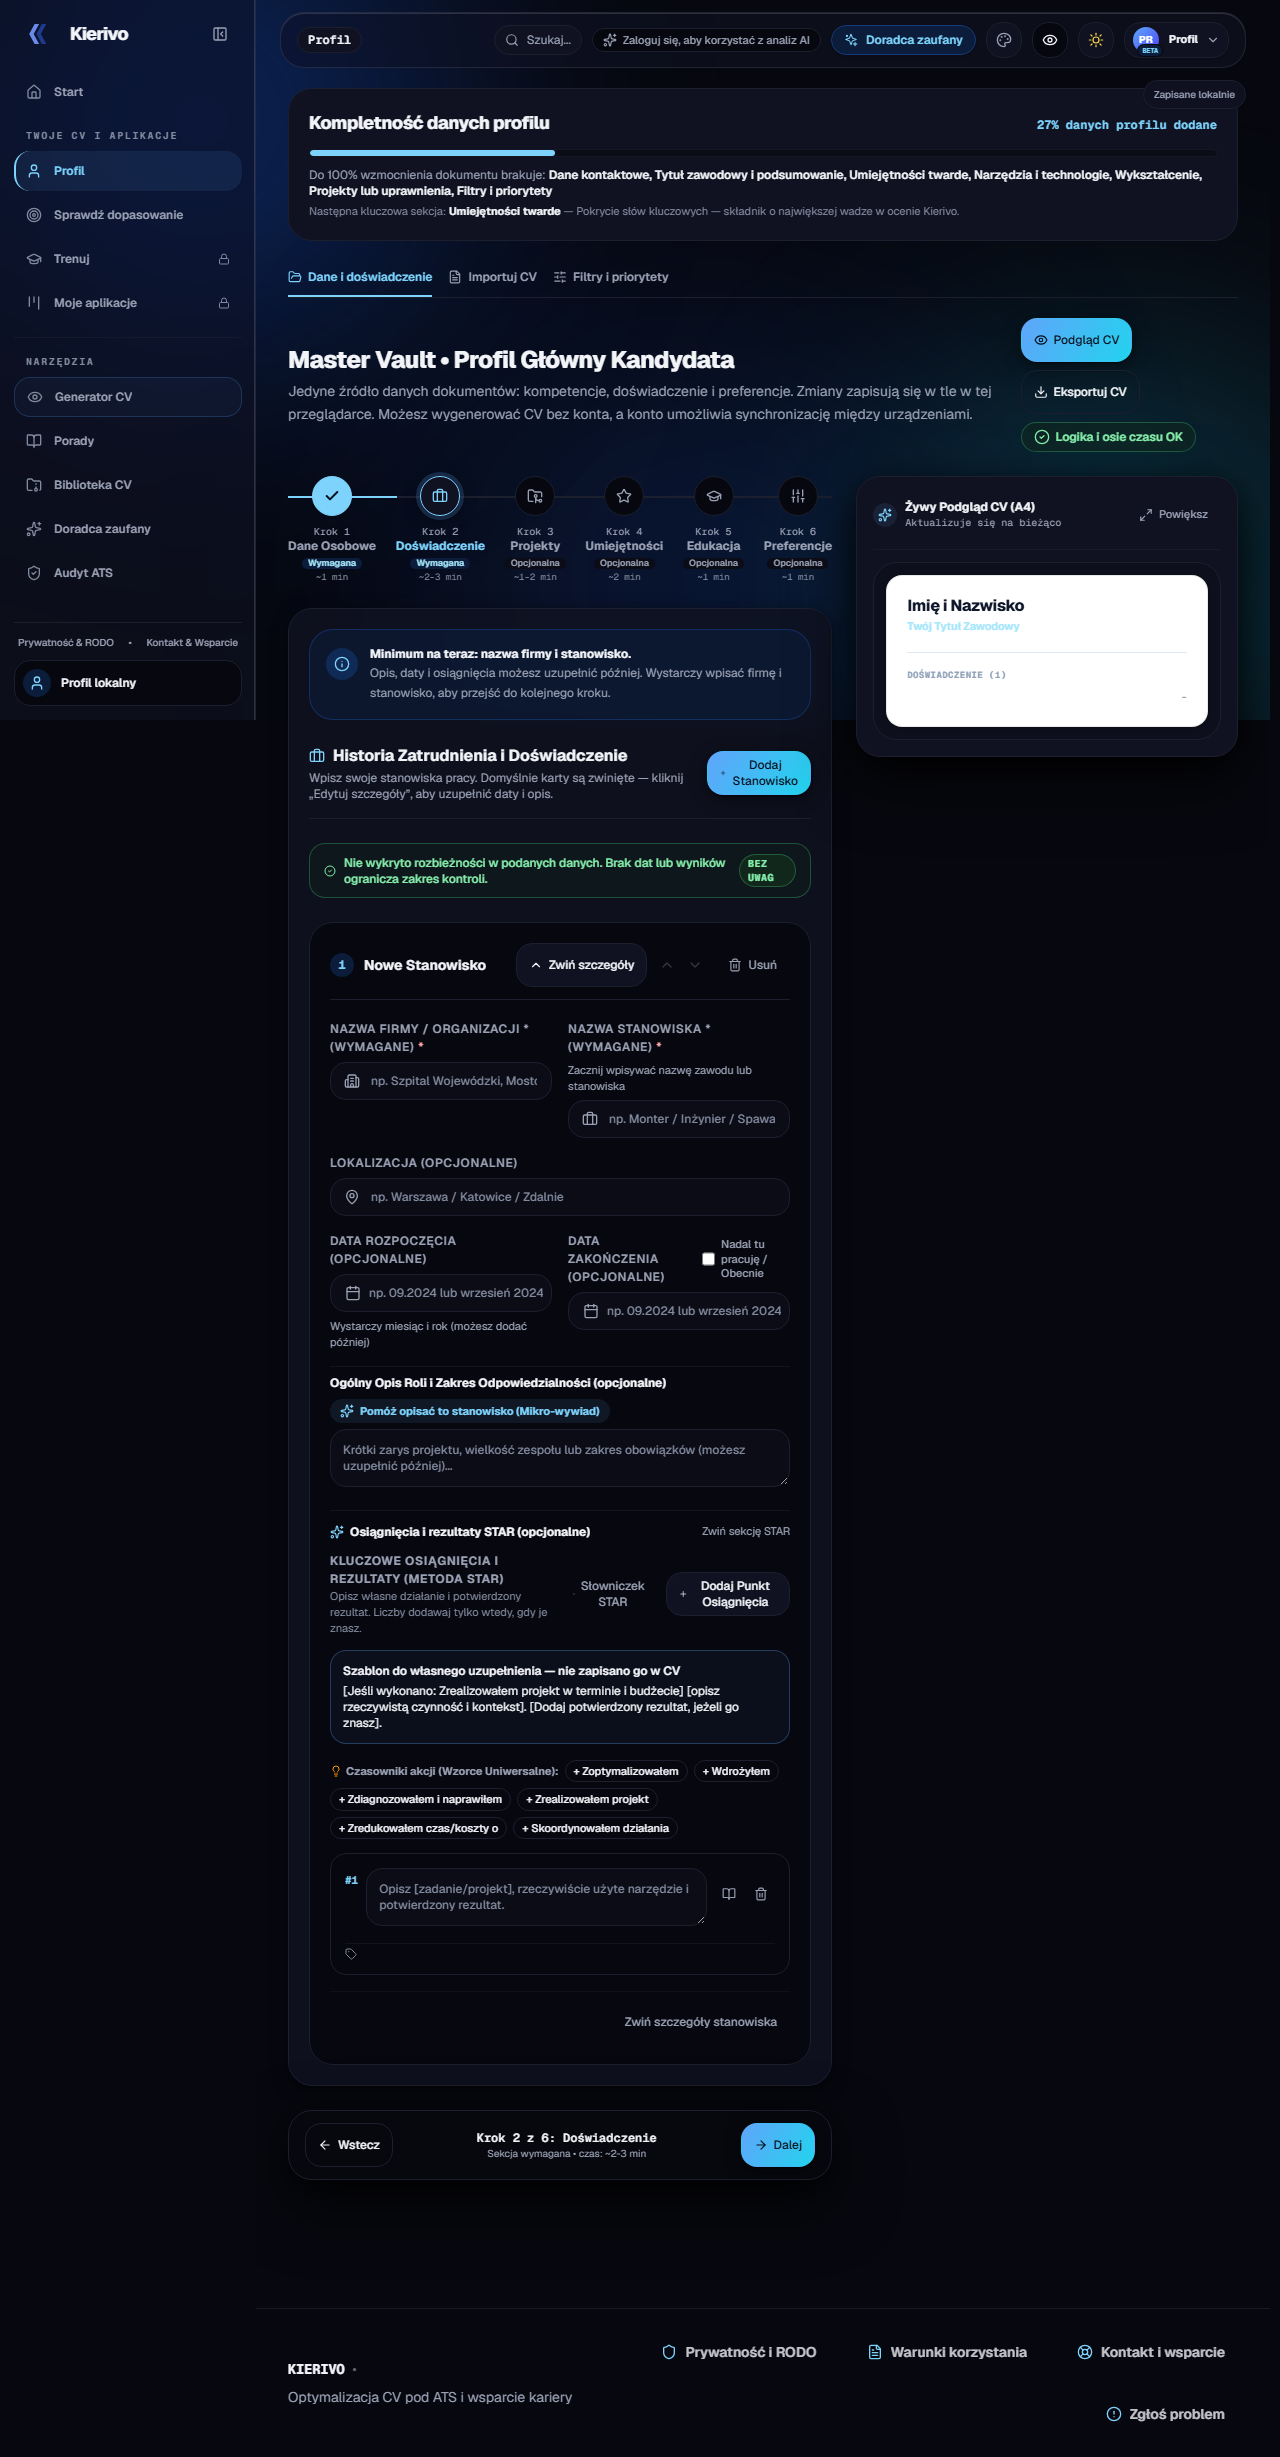
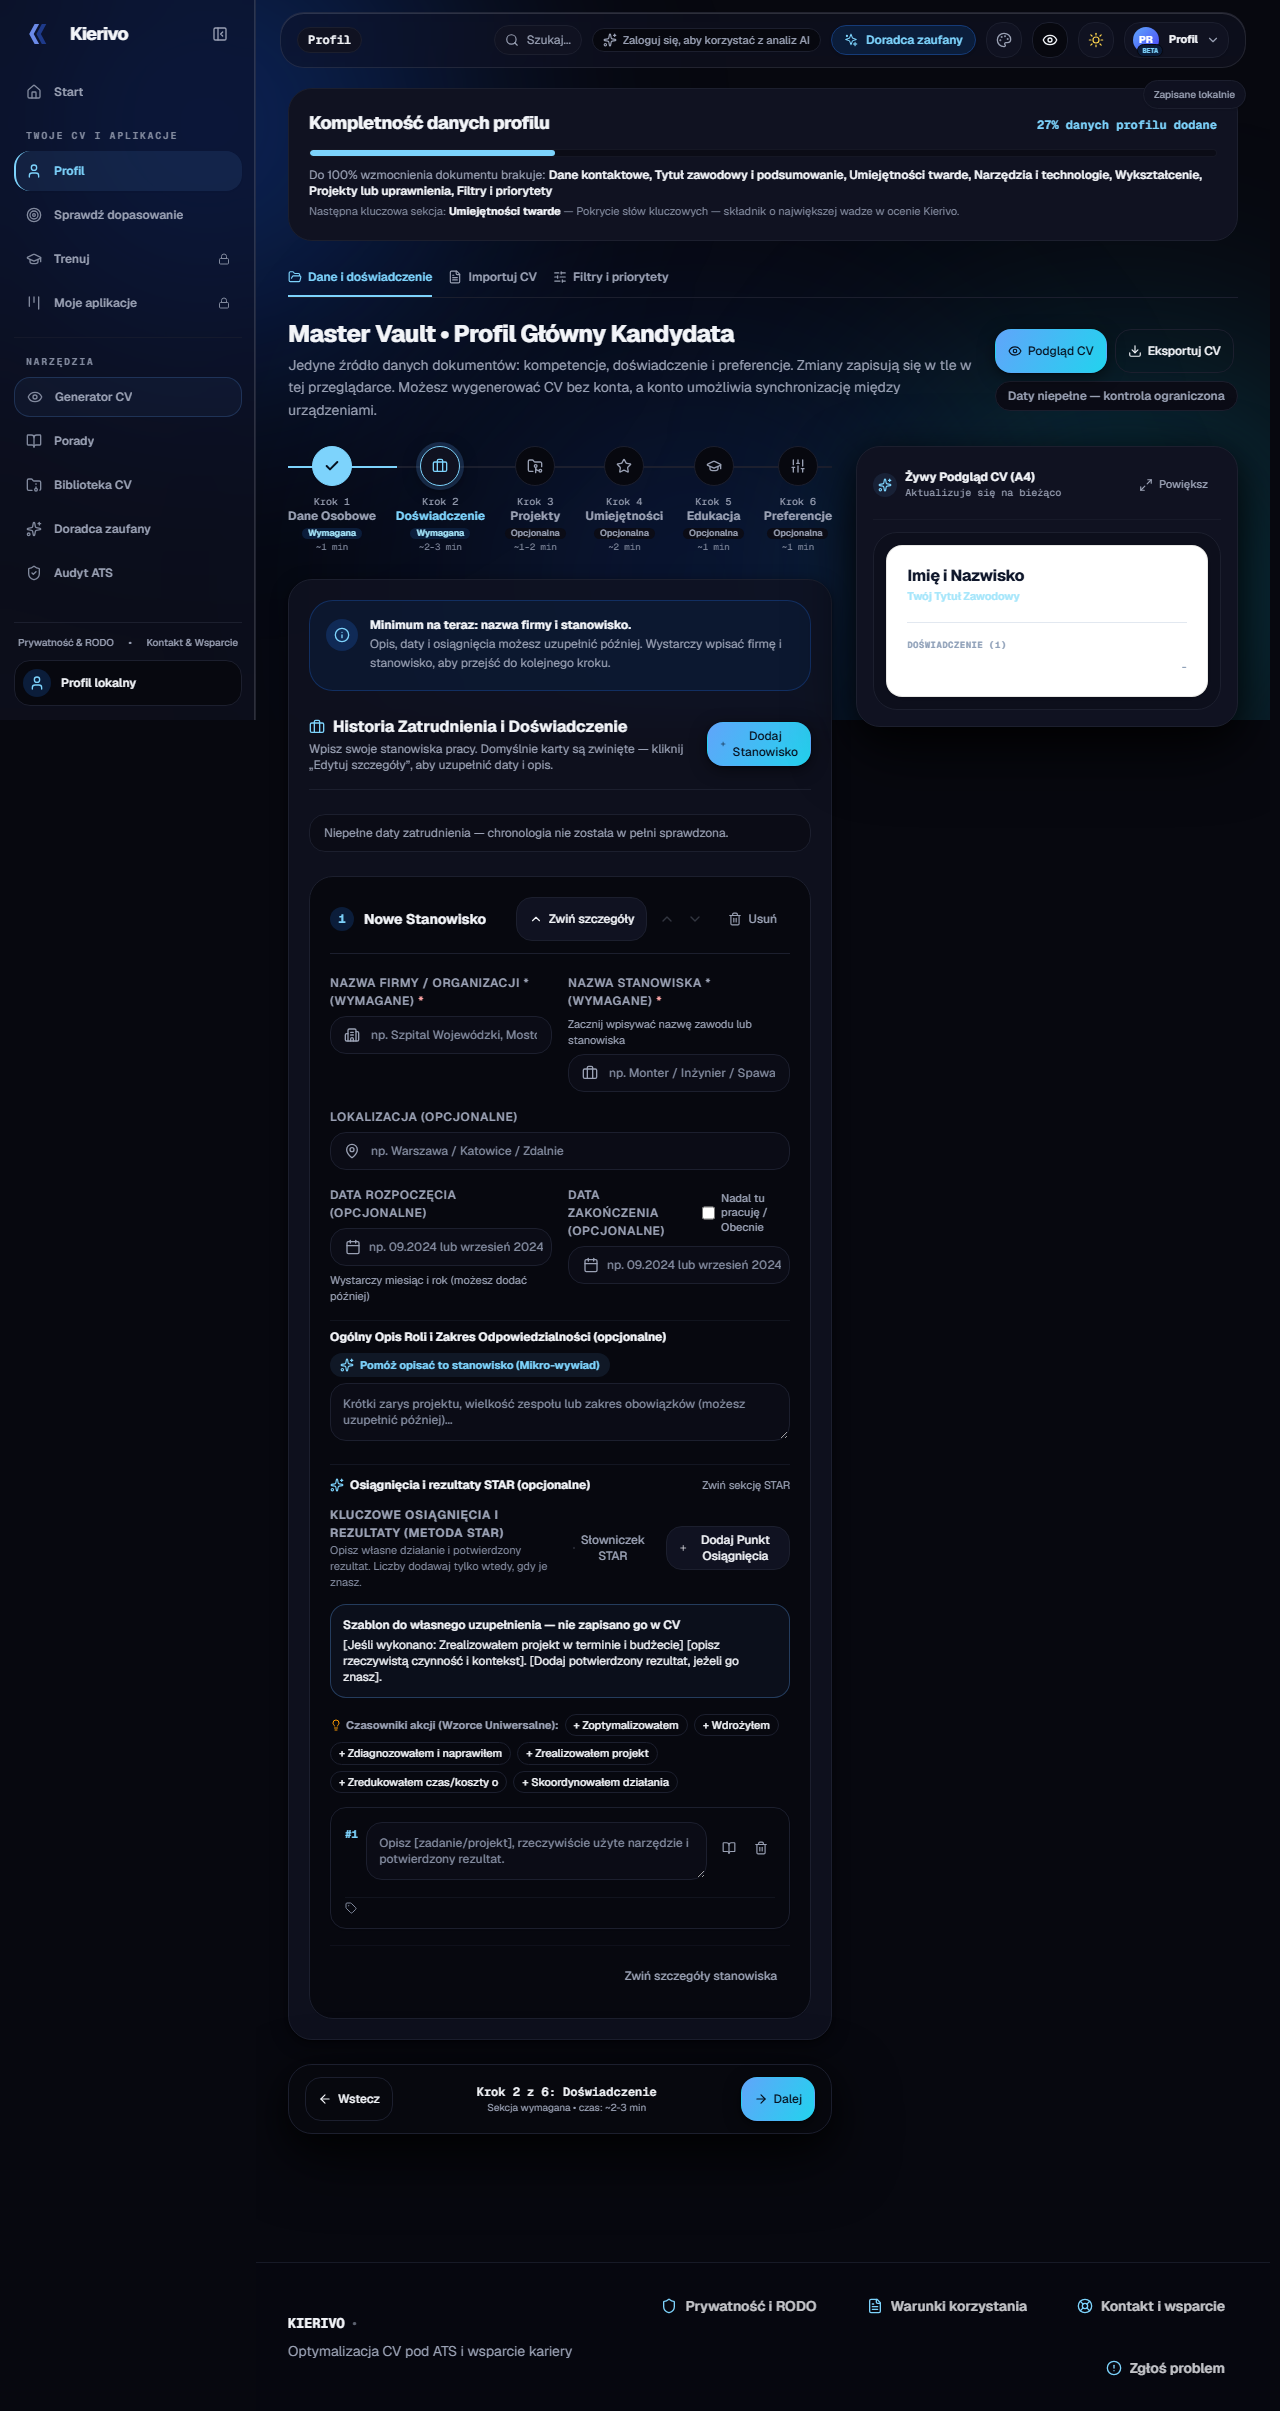
fix(audyt): nie ogłaszaj pełnej kontroli niepełnej historii

diff --git a/src/features/vault/MasterVaultEditor.tsx b/src/features/vault/MasterVaultEditor.tsx
@@ -25,6 +25,7 @@ import { MasterVault, ProfilerState, Education } from '../../types';
 import { Modal } from '../../components/ui/Modal';
 import { DocumentRenderer } from '../matcher/DocumentRenderer';
 import { auditExperienceTimelineAndMetrics } from '../../lib/consistencyGuard';
+import { getExperienceReviewState } from '../../lib/experienceReviewState';
 import { StepIndicator, StepItem } from './StepIndicator';
 import { PersonalSection } from './PersonalSection';
 import { ExperienceSection } from './ExperienceSection';
@@ -138,6 +139,7 @@ export const MasterVaultEditor: React.FC<MasterVaultEditorProps> = ({
     () => auditExperienceTimelineAndMetrics(vault.history || []),
     [vault.history]
   );
+  const experienceReviewState = getExperienceReviewState(vault.history || [], timelineAudit.alerts.length);
 
   const [activeStep, setActiveStep] = useState(0);
   const [experienceErrors, setExperienceErrors] = useState<Record<string, { company?: string; role?: string }>>({});
@@ -310,22 +312,26 @@ export const MasterVaultEditor: React.FC<MasterVaultEditorProps> = ({
                 setViewMode('stepper');
               }}
               className={`inline-flex items-center gap-1.5 rounded-xl border px-3 py-1.5 text-xs font-semibold transition-colors cursor-pointer ${
-                timelineAudit.alerts.length > 0
+                experienceReviewState === 'attention'
                   ? 'border-warning/40 bg-warning-soft/60 text-warning-fg hover:bg-warning-soft'
-                  : 'border-success/30 bg-success-soft/50 text-success-fg'
+                  : experienceReviewState === 'no-alerts'
+                    ? 'border-success/30 bg-success-soft/50 text-success-fg'
+                    : 'border-line bg-sunken text-muted hover:text-ink'
               }`}
-              title="Sprawdź spójność chronologii, brak przerw i obecność metryk Google X-Y-Z"
+              title="Pokaż kontrolę historii pracy i zakres sprawdzonych danych"
             >
-              {timelineAudit.alerts.length > 0 ? (
+              {experienceReviewState === 'attention' ? (
                 <>
                   <ShieldAlert className="h-4 w-4" />
                   <span>Asystent Logiki: {timelineAudit.alerts.length} {timelineAudit.alerts.length === 1 ? 'uwaga' : timelineAudit.alerts.length < 5 ? 'uwagi' : 'uwag'}</span>
                 </>
-              ) : (
+              ) : experienceReviewState === 'no-alerts' ? (
                 <>
                   <CheckCircle2 className="h-4 w-4 text-success-fg" />
-                  <span>Logika i osie czasu OK</span>
+                  <span>Bez uwag w podanych danych</span>
                 </>
+              ) : (
+                <span>{experienceReviewState === 'no-data' ? 'Dodaj doświadczenie do kontroli' : 'Daty niepełne — kontrola ograniczona'}</span>
               )}
             </button>
           </div>

diff --git a/src/features/vault/ExperienceSection.tsx b/src/features/vault/ExperienceSection.tsx
@@ -24,6 +24,7 @@ import { Combobox } from '../../components/ui/Combobox';
 import { MonthYearPicker } from '../../components/ui/MonthYearPicker';
 import { validateDateRange } from '../../lib/dateUtils';
 import { auditExperienceTimelineAndMetrics } from '../../lib/consistencyGuard';
+import { getExperienceReviewState } from '../../lib/experienceReviewState';
 import type { SuggestFn } from '../../hooks/useFieldSuggestions';
 import { AchievementEditor } from './AchievementEditor';
 import { EmptyState } from '../../components/ui/EmptyState';
@@ -87,6 +88,7 @@ export const ExperienceSection: React.FC<ExperienceSectionProps> = ({
   }, [errors]);
 
   const audit = useMemo(() => auditExperienceTimelineAndMetrics(history), [history]);
+  const reviewState = getExperienceReviewState(history, audit.alerts.length);
 
   const toggleExpand = (id: string) => {
     setExpandedIds((prev) => {
@@ -270,7 +272,7 @@ export const ExperienceSection: React.FC<ExperienceSectionProps> = ({
       {/* Asystent Spójności i Chronologii */}
       {history.length > 0 && (
         <>
-          {!audit.isHealthy ? (
+          {reviewState === 'attention' ? (
             <div className="rounded-2xl border border-line bg-elevated/70 p-4 flex flex-col sm:flex-row items-start sm:items-center justify-between gap-3 text-xs shadow-xs">
               <div className="flex items-start sm:items-center gap-3">
                 <div className="flex h-9 w-9 shrink-0 items-center justify-center rounded-xl bg-brand-600/10 text-brand-600">
@@ -310,11 +312,15 @@ export const ExperienceSection: React.FC<ExperienceSectionProps> = ({
                 )}
               </div>
             </div>
+          ) : reviewState === 'limited' ? (
+            <div className="rounded-xl border border-line bg-sunken px-3.5 py-2.5 text-xs text-muted">
+              Niepełne daty zatrudnienia — chronologia nie została w pełni sprawdzona.
+            </div>
           ) : (
             <div className="rounded-xl border border-success/30 bg-success-soft/30 px-3.5 py-2.5 flex items-center justify-between text-xs text-success-fg">
               <span className="flex items-center gap-2 font-medium">
                 <CheckCircle2 className="h-4 w-4 text-success-fg" />
-                Nie wykryto rozbieżności w podanych danych. Brak dat lub wyników ogranicza zakres kontroli.
+                Nie wykryto rozbieżności w podanych danych.
               </span>
               <span className="text-[10px] font-mono font-bold uppercase tracking-wider bg-success-soft px-2 py-0.5 rounded-full border border-success/30">
                 Bez uwag

diff --git a/src/lib/__tests__/experienceReviewState.test.ts b/src/lib/__tests__/experienceReviewState.test.ts
@@ -1,0 +1,22 @@
+import { describe, expect, it } from 'vitest';
+import type { WorkExperience } from '../../types';
+import { getExperienceReviewState } from '../experienceReviewState';
+
+const entry: WorkExperience = {
+  id: 'synthetic', company: 'Firma', role: 'Rola', location: '',
+  startDate: '2024-01', endDate: '2024-12', isCurrent: false, highlights: [],
+};
+
+describe('zakres kontroli historii pracy', () => {
+  it('nie ogłasza sukcesu dla pustej lub niedatowanej historii', () => {
+    expect(getExperienceReviewState([], 0)).toBe('no-data');
+    expect(getExperienceReviewState([{ ...entry, startDate: '' }], 0)).toBe('limited');
+    expect(getExperienceReviewState([{ ...entry, endDate: '' }], 0)).toBe('limited');
+    expect(getExperienceReviewState([{ ...entry, isCurrent: true, endDate: '' }], 0)).toBe('no-alerts');
+  });
+
+  it('zachowuje uwagi audytora jako ważniejszy sygnał', () => {
+    expect(getExperienceReviewState([{ ...entry, startDate: '' }], 1)).toBe('attention');
+    expect(getExperienceReviewState([entry], 0)).toBe('no-alerts');
+  });
+});

diff --git a/src/lib/experienceReviewState.ts b/src/lib/experienceReviewState.ts
@@ -1,0 +1,13 @@
+import type { WorkExperience } from '../types';
+
+export type ExperienceReviewState = 'no-data' | 'limited' | 'attention' | 'no-alerts';
+
+export function getExperienceReviewState(history: WorkExperience[], alertCount: number): ExperienceReviewState {
+  if (history.length === 0) return 'no-data';
+  if (alertCount > 0) return 'attention';
+  // Audyt nie może potwierdzić osi czasu bez początku i końca każdego wpisu.
+  if (history.some((entry) => !entry.startDate.trim() || (!entry.isCurrent && !entry.endDate.trim()))) {
+    return 'limited';
+  }
+  return 'no-alerts';
+}

diff --git a/docs/audyt-ryzyk-funkcjonalnych.md b/docs/audyt-ryzyk-funkcjonalnych.md
@@ -36,6 +36,14 @@ konta chmurowego, więc zgodność pobranego artefaktu nadal nie jest dowiedzion
 Ten sam zrzut ujawnił zbyt szeroką klasyfikację stanowiska: sam wyraz „Tester”
 przypisywał pracę przy procesie do IT. Reguła wymaga teraz kontekstu
 oprogramowania lub aplikacji, a test odróżnia te nazwy od testera produkcji.
+Przejazd odkrył też drugi komunikat zapewniający „Logika i osie czasu OK”
+przy pustym profilu. Pasek profilu i sekcja doświadczenia korzystają teraz
+ze wspólnego rozpoznania: brak danych, niepełne daty, uwagi albo brak uwag
+w podanym zakresie. E2E potwierdza dwa pierwsze stany na ekranie fikcyjnego
+profilu; test funkcji obejmuje wszystkie cztery. Taki komunikat nie dowodzi
+poprawności samego algorytmu wykrywania nakładania się zatrudnienia. Zrzuty
+`docs/audyt-os-czasu-brak-danych-2026-09-30.png` i
+`docs/audyt-os-czasu-niepelne-daty-2026-09-30.png` pokazują oba stany.
 
 ## Inwentarz wejść głównych
 
